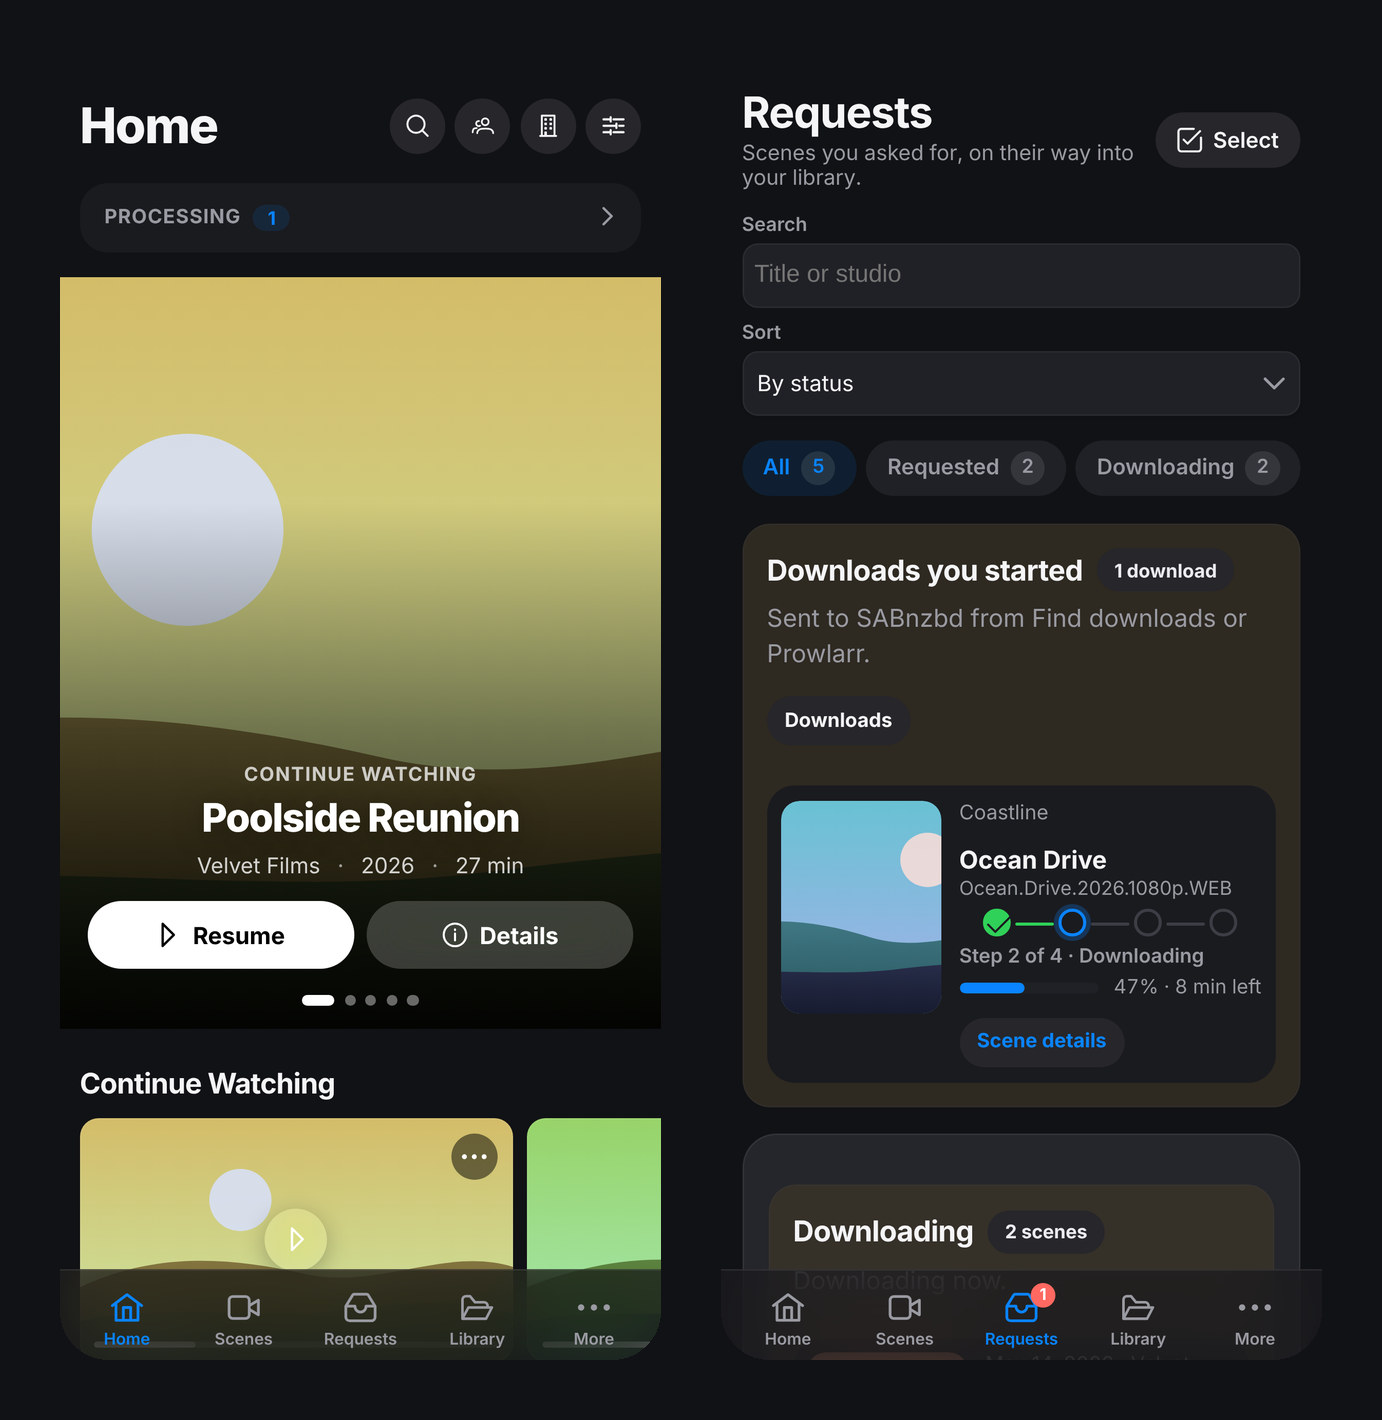
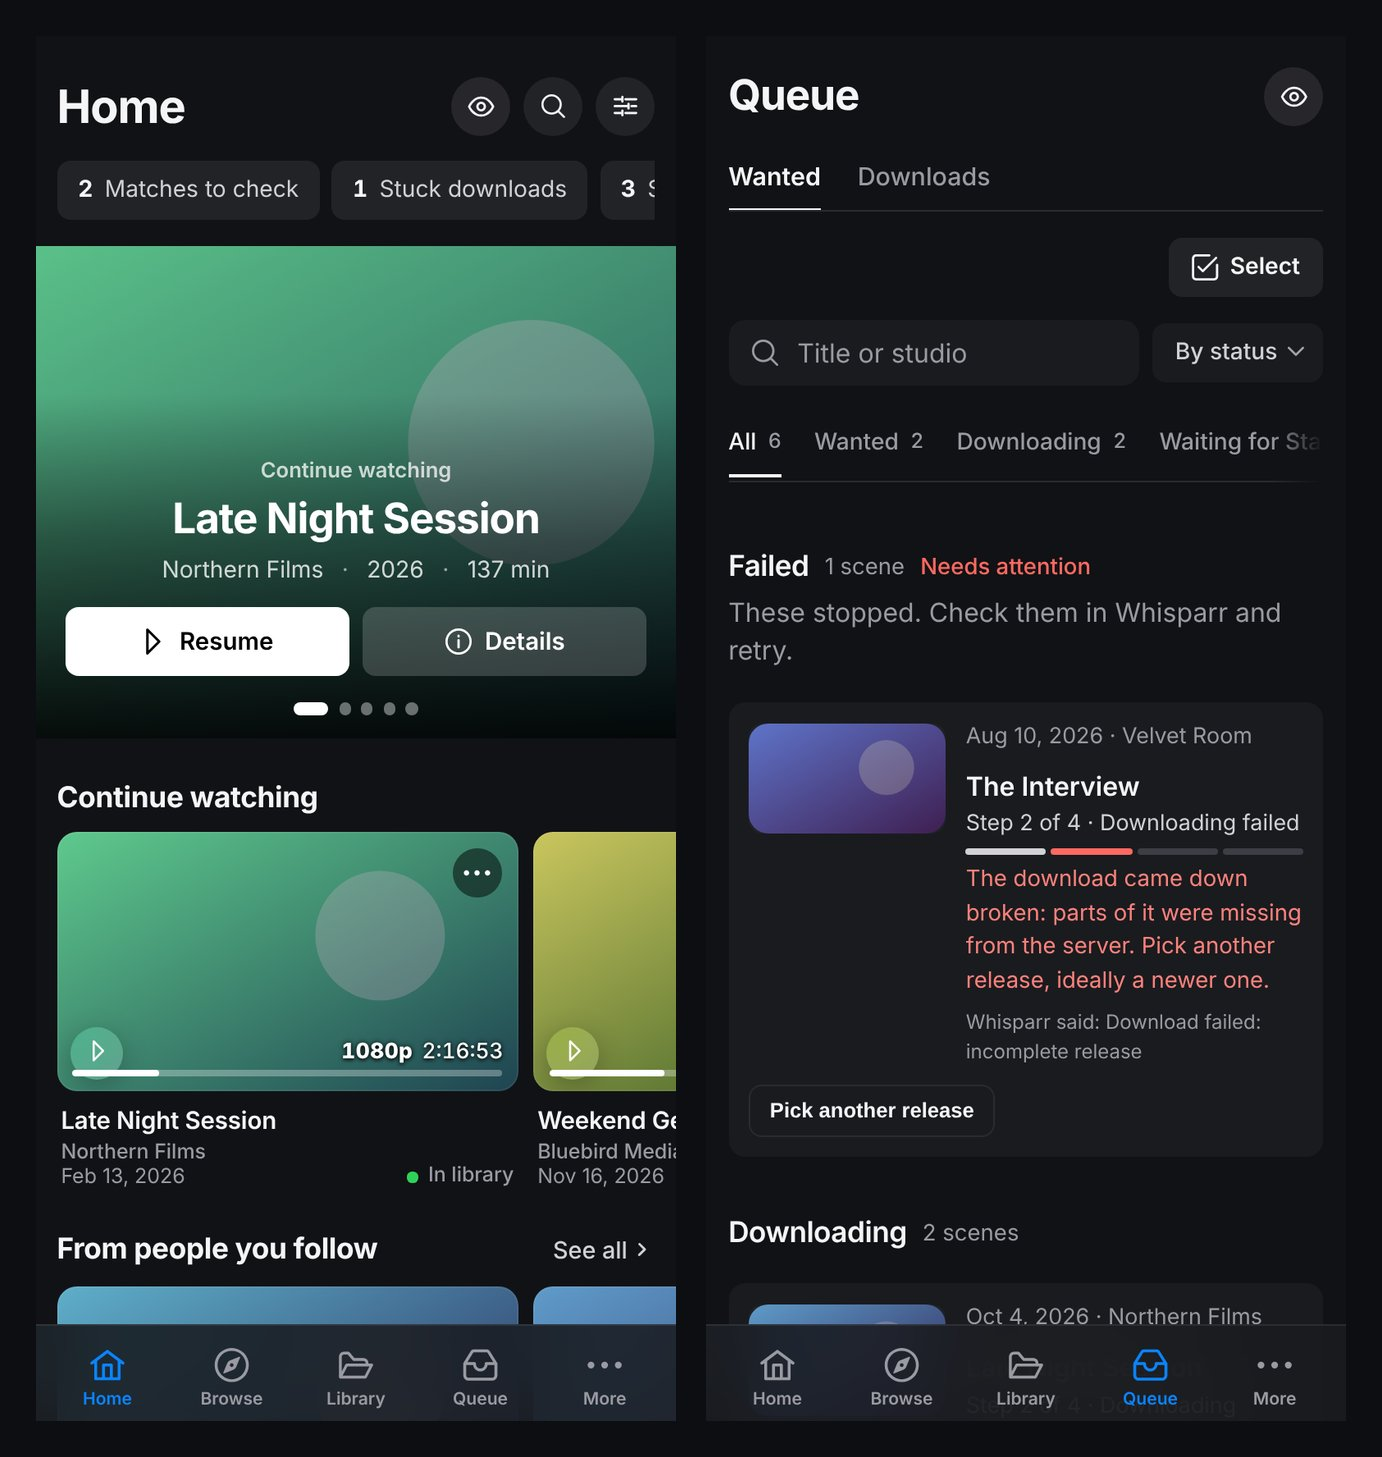
docs: README and Unraid template for 1.7.0
The README lists what Stashboard does now, by area, says Wanted
where it said Requests, and has new screenshots of the current UI.
The Unraid template says the same and that Better copies needs the
media path.

diff --git a/README.md b/README.md
@@ -1,6 +1,6 @@
 # Stashboard
 
-Stashboard is a self-hosted console that discovers scenes from a supported catalog provider, sends acquisitions to Whisparr, and validates availability against your local Stash library.
+Stashboard is a self-hosted app that finds scenes on a supported catalog provider, gets the ones you want through Whisparr, and checks them against your local Stash library.
 
 [![Latest release](https://img.shields.io/github/v/release/mrnogood356/stashboard?display_name=tag&sort=semver&style=for-the-badge)](https://github.com/mrnogood356/stashboard/releases/latest)
 [![CI](https://img.shields.io/github/actions/workflow/status/mrnogood356/stashboard/ci.yml?branch=main&label=CI&style=for-the-badge)](https://github.com/mrnogood356/stashboard/actions/workflows/ci.yml)
@@ -11,19 +11,39 @@ Stashboard is a self-hosted console that discovers scenes from a supported catal
 
 ## What Stashboard Does
 
-- Discover scenes through a configured catalog provider during first-run setup.
-- Submit and track acquisition requests through Whisparr.
-- Check local Stash availability so you can see what is already in your library.
+Stashboard sits between your catalog (StashDB or FansDB), Whisparr and Stash. Find a scene, mark it Wanted, follow it through the download into Stash, then watch it in the same app on your phone or desktop.
 
-- Browse FansDB next to StashDB (or the other way round): add the second provider in Settings → Integrations as an optional browse provider. Requests keep going through your chosen provider.
-- Get Discord, ntfy or webhook notifications when requests start downloading, land in your library, or fail (Settings → Notifications).
-- Watch your Stash library in Stashboard: a built-in player with resume, scrub previews, quality choice, picture-in-picture and AirPlay/Chromecast. Progress and play counts sync back to Stash, and a Continue Watching rail picks up where you left off. Files your browser can't play are converted by Stash on the fly, so Stash's live transcoding should be enabled.
-- New scenes on autopilot (Settings → Automation): when Whisparr imports a scene, Stashboard has Stash scan for it, identify it on StashDB and generate its previews. Add Stashboard's webhook in Whisparr to make it instant; otherwise it notices new imports on its own within about 15 minutes.
-- Match & rename (Library tools): matches scenes Stash couldn't identify using every source it can reach: your main catalog (StashDB), every other stash-box set up in Stash (FansDB, ThePornDB…), ThePornDB from its API key, and finally Stash's own scrapers. It tries video fingerprints first, then the file name, and shows the likely matches with covers and reasons so you can pick one. You can also search StashDB yourself. "Match all" saves only the sure matches and can run every night. The renamer moves matched files into a pattern such as `{studio}/{date} - {title}`. It shows a preview first, can run automatically after each match, leaves Whisparr's own files alone, and the last run can be undone.
-- Send to Whisparr: scenes you match to StashDB that Whisparr shows as missing are handed to Whisparr's Manual Import, so Whisparr counts them as downloaded and takes over the file (move, or hardlink/copy). "Send them now" catches up on everything Stash has that Whisparr is missing. If Stash and Whisparr see your media under different paths, set the folder mapping on the Match tab and tap "Save and check".
-- Empty folders (Rename tab): removes folders left empty after renames, Unmatched moves and Whisparr moves, and has a one-tap cleanup for the whole library. It never removes library or Whisparr root folders. Stashboard needs to see your media for this: mount the same media path into the Stashboard container as Stash uses (for example host `/mnt/user/data` → container `/data`).
-- Repair Whisparr (Rename tab): when Whisparr shows scenes as missing because it's looking in the wrong folder, this points them back at the right root folder without moving anything, rescans, and re-imports the rest from where Stash has them.
-- Pick a release: on a requested scene, see every release your indexers found (quality, size, seeders, age, why Whisparr would skip it) and download the one you want.
+### Find scenes
+
+- Browse your catalog provider by scenes, performers and studios, with filters for tags, studios and more. FansDB can sit next to StashDB as an extra browse provider (Settings → Integrations); Wanted scenes keep going through your main one.
+- Search finds scenes, performers and studios in the catalog and in your library at once.
+- Calendar shows what's coming out, and You may enjoy suggests scenes by the categories you pick.
+- Follow performers and studios (optionally only scenes with chosen tags) and get their new scenes on Home and in notifications, or have them marked Wanted for you.
+
+### Wanted and downloads
+
+- Mark a scene Wanted and Stashboard hands it to Whisparr, then shows each step: searching, downloading, importing, in Stash.
+- Pick a release yourself: see every release your indexers found (quality, size, seeders, age, why Whisparr would skip it) and download the one you want.
+- Get Discord, ntfy or webhook notifications when a scene starts downloading, lands in your library, or fails (Settings → Notifications).
+- New scenes on autopilot (Settings → Automation): when Whisparr imports a scene, Stash scans it, identifies it on StashDB and generates its previews. Add Stashboard's webhook in Whisparr to make it instant; otherwise Stashboard notices new imports by itself within about 15 minutes.
+
+### Watch your library
+
+- A built-in player with resume, scrub previews, quality choice, picture-in-picture, AirPlay/Chromecast, looping a part or a chapter, and mirroring. Progress and play counts sync back to Stash. Files your browser can't play are converted by Stash on the fly, so enable Stash's live transcoding.
+- Continue watching, Watch later with a play queue, History, chapter playlists, and a swipe feed for phones.
+- Library cards show quality and length on the picture, and you can sort by Stash's production date.
+
+### Tools for your library
+
+- **Match scenes**: matches scenes Stash couldn't identify using every source it can reach: your main catalog, every other stash-box set up in Stash (FansDB, ThePornDB…), ThePornDB from its API key, and Stash's own scrapers. It tries video fingerprints first, then the file name, and shows likely matches with covers and reasons. "Match all" saves only the sure matches and can run every night. Matched scenes that Whisparr shows as missing are handed to Whisparr's Manual Import, so Whisparr counts them as downloaded.
+- **Rename files**: names and folders follow Whisparr's own naming, so both apps agree. It shows a preview first, can run after each match, never touches files Whisparr manages, and the last run can be undone. It also removes folders left empty, and Repair Whisparr points scenes Whisparr shows as missing back at the right root folder.
+- **Better copies**: swaps files that are too big, or too low quality, for a better copy, a few scenes an hour. The new file is checked before the old one is ever replaced.
+- **Broken files**, **Duplicates**, **Merge** (performers or studios entered more than once), **Tag cleanup**, **Samples**, **Library stats**, **Stash jobs** and **Schedules**. **Activity** lists everything Stashboard did, with Undo for renames.
+- Tools that change files need to see your media: mount the same media path into the Stashboard container as Stash uses (for example host `/mnt/user/data` → container `/data`). If Stash and Whisparr see your media under different paths, set the folder mapping in Settings → Integrations and tap "Save and check".
+
+### Make it yours
+
+- Light and dark themes, an accent colour that can follow the artwork, and a Home page you can rearrange.
 - App Lock (Settings → Privacy): require a PIN to reopen Stashboard after it's been in the background, enforced by the server. Face ID works too when Stashboard is opened over HTTPS with a domain name. Stashboard also tries to cover the screen when you leave, but iOS can still show a preview in the app switcher.
 - Install it on your phone: in Safari use Share → Add to Home Screen; in Chrome use Install app.
 
@@ -31,10 +51,10 @@ Stashboard is a self-hosted console that discovers scenes from a supported catal
 
 ![Stashboard Home on desktop](docs/screenshots/home.jpg)
 
-![Requests: where each request is, with download progress](docs/screenshots/requests.jpg)
+![Wanted: where each scene is, with download progress](docs/screenshots/wanted.jpg)
 
 <p align="center">
-  <img src="docs/screenshots/iphone.jpg" alt="Stashboard Home and Requests on iPhone" width="640">
+  <img src="docs/screenshots/iphone.jpg" alt="Stashboard Home and Wanted on iPhone" width="640">
 </p>
 
 Screenshots use sample data.
